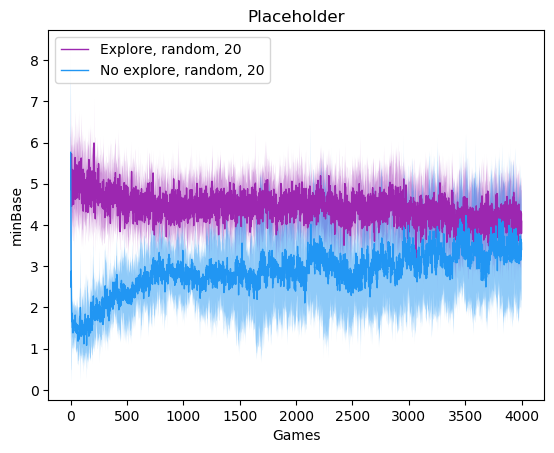
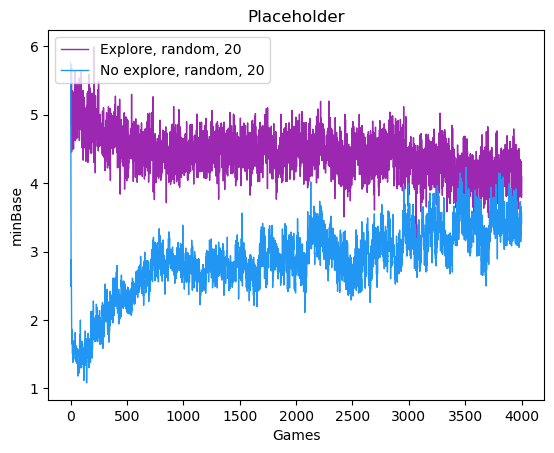
No sd

diff --git a/Analyse/analyses.py b/Analyse/analyses.py
@@ -46,7 +46,7 @@ class AnalysePlot():
             self.plot(x, mean, lw=1, label=name, color=color, zorder=2)
             if meanVar:
                 sd = sd / np.sqrt(mean.shape[2])
-            self.fill_between(x, mean + sd, mean - sd, facecolor=color, alpha=0.5, zorder=2)
+            # self.fill_between(x, mean + sd, mean - sd, facecolor=color, alpha=0.5, zorder=2)
             self.doPrint = True
 
         self.plt.varPlot = varPlot
